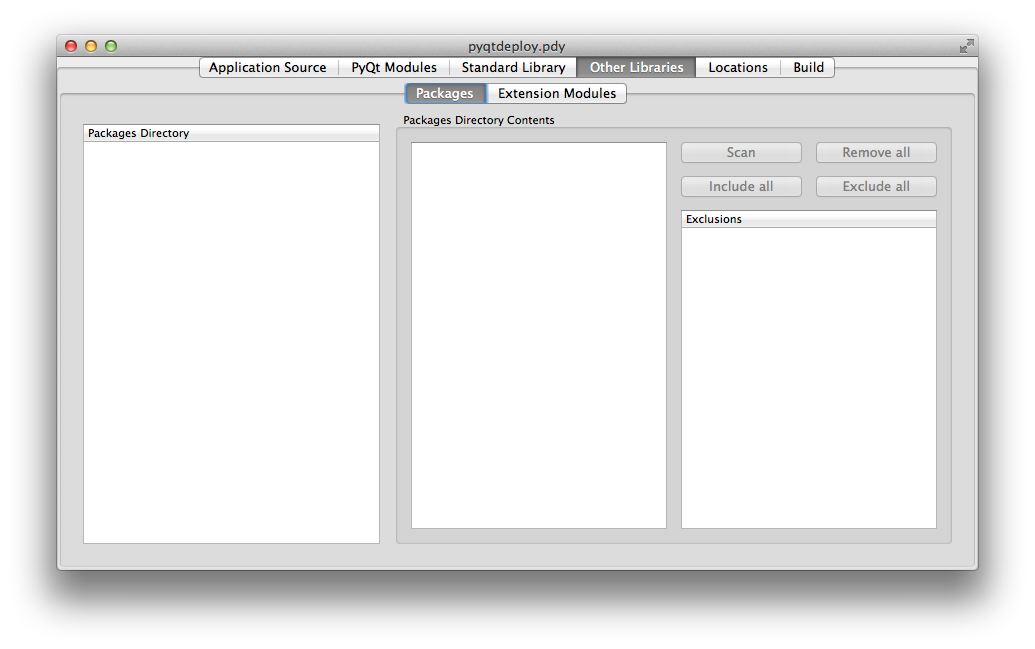
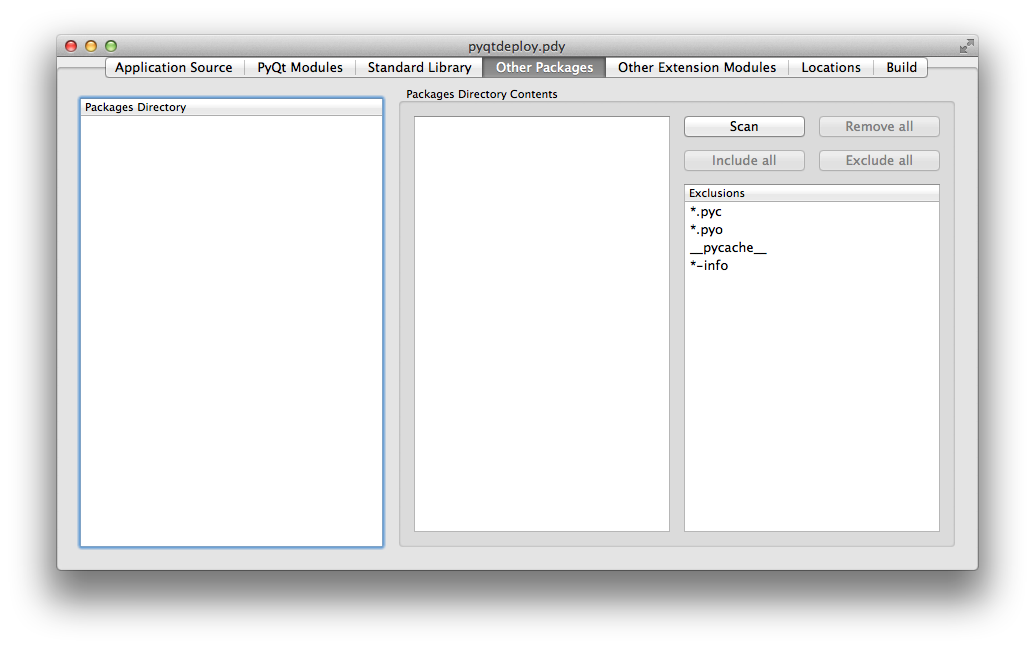
Moved the sub-tabs handling other packages and extension modules to the top level.

Changed region(s): [[0.0618, 0.0616, 0.9275, 0.8629]]

diff --git a/pyqtdeploy/gui/project_gui.py b/pyqtdeploy/gui/project_gui.py
@@ -39,7 +39,8 @@ from .application_page import ApplicationPage
 from .build_page import BuildPage
 from .exception_handlers import handle_user_exception
 from .locations_page import LocationsPage
-from .other_libraries_page import OtherLibrariesPage
+from .other_extension_modules_page import OtherExtensionModulesPage
+from .other_packages_page import OtherPackagesPage
 from .pyqt_page import PyQtPage
 from .standard_library_page import StandardLibraryPage
 
@@ -137,8 +138,12 @@ class ProjectGUI(QMainWindow):
         standard_library_page = StandardLibraryPage()
         tabs.addTab(standard_library_page, standard_library_page.label)
 
-        other_libraries_page = OtherLibrariesPage()
-        tabs.addTab(other_libraries_page, other_libraries_page.label)
+        other_packages_page = OtherPackagesPage()
+        tabs.addTab(other_packages_page, other_packages_page.label)
+
+        other_extension_modules_page = OtherExtensionModulesPage()
+        tabs.addTab(other_extension_modules_page,
+                other_extension_modules_page.label)
 
         locations_page = LocationsPage()
         tabs.addTab(locations_page, locations_page.label)

diff --git a/pyqtdeploy/gui/other_extension_modules_page.py b/pyqtdeploy/gui/other_extension_modules_page.py
@@ -31,11 +31,11 @@ from ..project import ExtensionModule
 from .filename_editor_delegate import FilenameEditorDelegate
 
 
-class OtherExtensionModulesSubpage(QWidget):
-    """ The GUI for the other extension modules sub-page of a project. """
+class OtherExtensionModulesPage(QWidget):
+    """ The GUI for the other extension modules page of a project. """
 
     # The page's label.
-    label = "Extension Modules"
+    label = "Other Extension Modules"
 
     @property
     def project(self):

diff --git a/pyqtdeploy/gui/other_packages_page.py b/pyqtdeploy/gui/other_packages_page.py
@@ -35,11 +35,11 @@ from .filename_editor_delegate import FilenameEditorDelegate
 from .qrc_package_editor import QrcPackageEditor
 
 
-class OtherPackagesSubpage(QWidget):
-    """ The GUI for the other packages sub-page of a project. """
+class OtherPackagesPage(QWidget):
+    """ The GUI for the other packages page of a project. """
 
     # The page's label.
-    label = "Packages"
+    label = "Other Packages"
 
     @property
     def project(self):

diff --git a/doc/tutorial.rst b/doc/tutorial.rst
@@ -256,8 +256,8 @@ the modules imported directly by the application.
     then do not specify any modules here.
 
 
-Defining the Standard Library Packages
---------------------------------------
+Adding Standard Library Packages
+--------------------------------
 
 The tab for defining the Python standard library packages used by the
 application is shown below.
@@ -300,10 +300,10 @@ that will be found automatically by the compiler and linker.
 that uses any of these libraries and so they are all disabled.
 
 
-Defining Additional Packages
-----------------------------
+Adding Other Packages
+---------------------
 
-The sub-tab for defining additional packages used by the application is shown
+The tab for defining additional packages used by the application is shown
 below.
 
 .. image:: /images/other_packages_tab.png
@@ -325,11 +325,11 @@ installed.
 :program:`pyqtdeploy` does not use any additional Python packages.
 
 
-Defining Additional Extension Modules
--------------------------------------
+Adding Other Extension Modules
+------------------------------
 
-The sub-tab for defining additional C extension modules used by the application
-is shown below.
+The tab for defining additional C extension modules used by the application is
+shown below.
 
 .. image:: /images/other_extension_modules_tab.png
     :align: center
